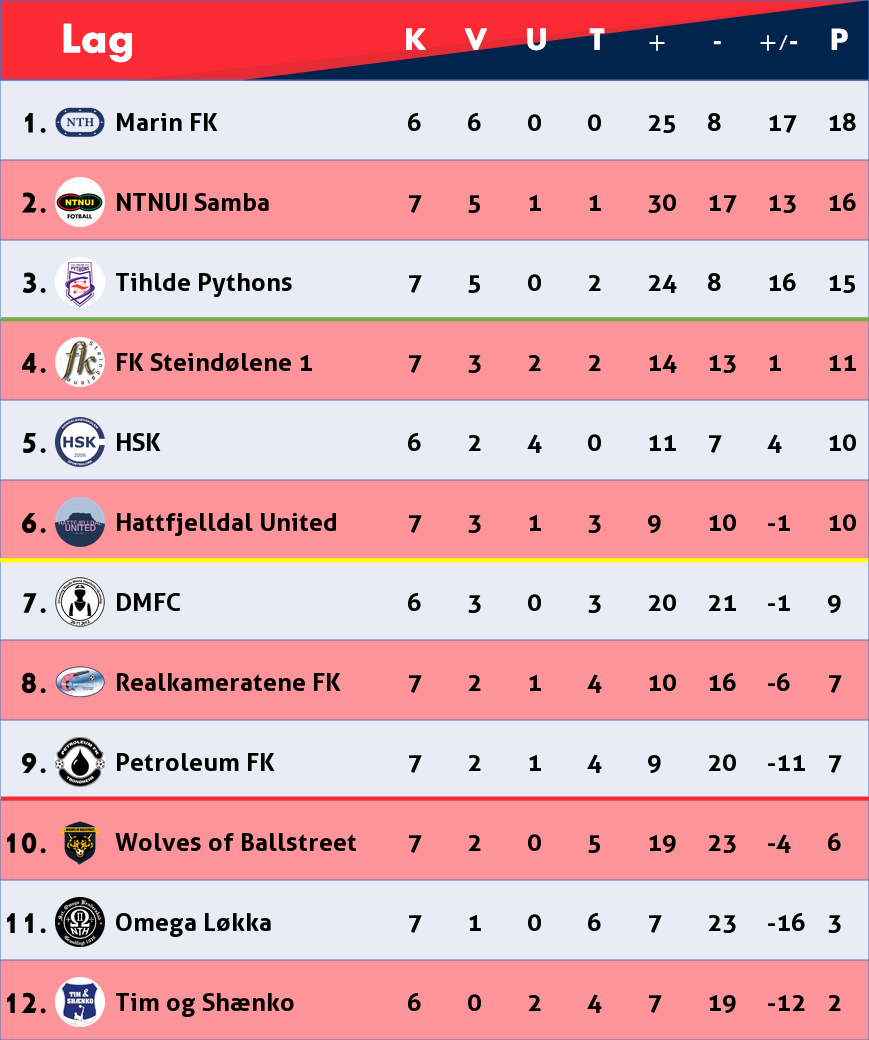
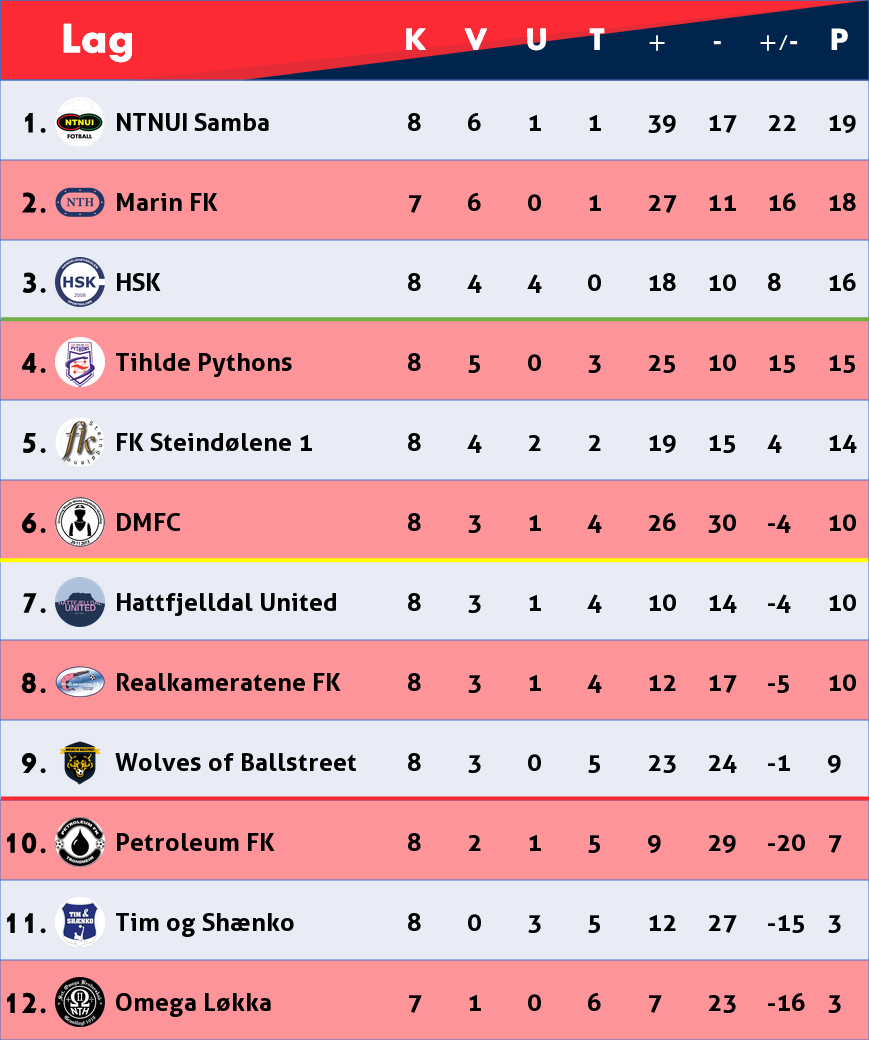
Update

diff --git a/Scripts/TableGenerator.py b/Scripts/TableGenerator.py
@@ -156,6 +156,6 @@ def main(avd):
 
 
 # Velg avdeling: A = 0, B = 1
-avd = 1
+avd = 0
 
 main(avd)
